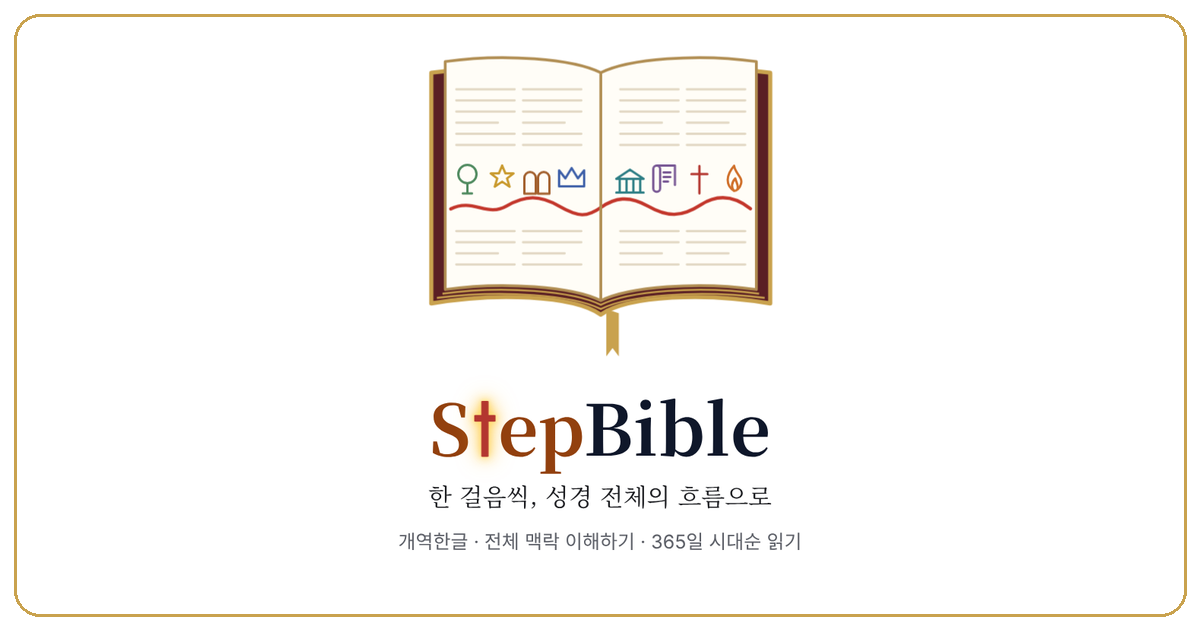
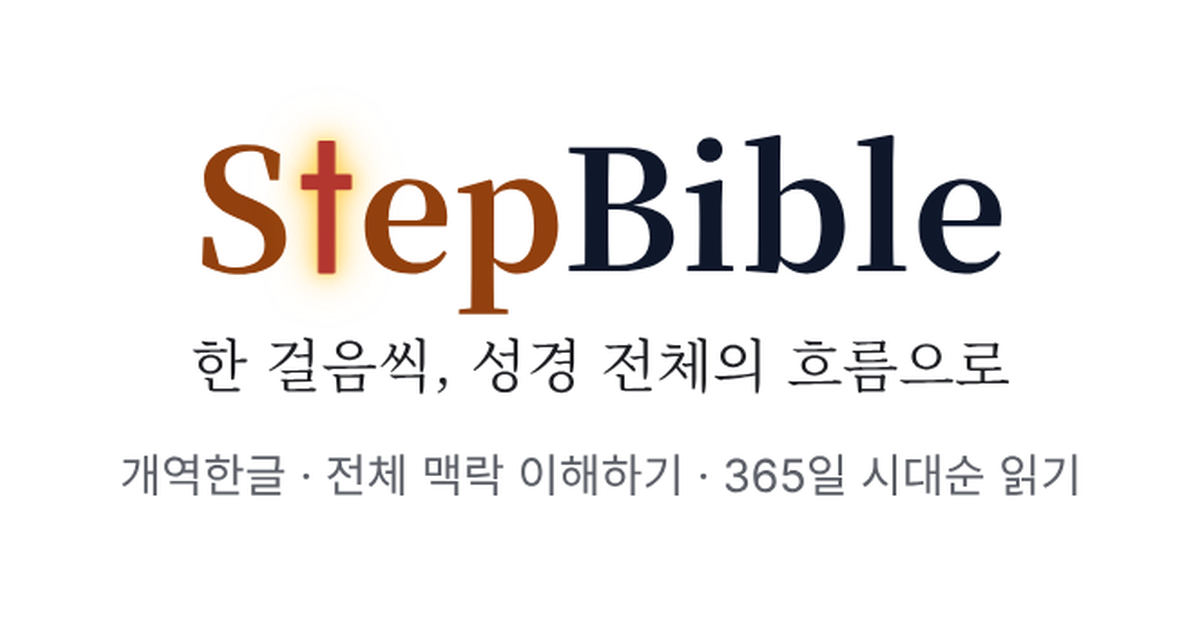
표지: 책 그림 제거·안내 문구와 출처 줄 제거·애니 끝나고 1초 뒤 자동 넘김, 새 홈 아이콘(네온 십자가)·썸네일
Claude-Session: https://claude.ai/code/session_01ShrJEvwfrySTnp1QrGgoXP

diff --git a/index.html b/index.html
@@ -7,8 +7,8 @@
 <meta name="description" content="흐름으로 읽는 개역한글 성경 — 큰 그림, 365일 시대순 읽기, 66권 해설">
 <meta name="theme-color" content="#5a1f24">
 <link rel="manifest" href="manifest.webmanifest">
-<link rel="icon" href="sb2-icon-192.png">
-<link rel="apple-touch-icon" sizes="180x180" href="sb2-touch-180.png">
+<link rel="icon" href="sb3-icon-192.png">
+<link rel="apple-touch-icon" sizes="180x180" href="sb3-touch-180.png">
 <meta name="apple-mobile-web-app-capable" content="yes">
 <meta name="apple-mobile-web-app-title" content="StepBible">
 <meta property="og:title" content="StepBible">
@@ -321,7 +321,7 @@ textarea{min-height:96px;resize:vertical}
 .cover .hint{margin:clamp(10px,2.4vh,20px) 0 0;font-size:13.5px;color:var(--sub)}
 .cover .ft{position:absolute;left:0;right:0;bottom:clamp(14px,2.4vh,20px);font-size:12px;color:var(--sub)}
 .cover .fade{animation:rise .8s ease-out both}
-.cover h2.fade{animation-delay:3.9s}.cover .tag.fade{animation-delay:4.1s}.cover .sub.fade{animation-delay:4.2s}.cover .hint.fade{animation-delay:4.6s}
+.cover h2.fade{animation-delay:.3s}.cover .tag.fade{animation-delay:.55s}.cover .sub.fade{animation-delay:.7s}.cover .hint.fade{animation-delay:1.4s}
 @media(max-height:640px){.cover .ft{display:none}.frame{padding-bottom:20px}}
 @keyframes draw{to{stroke-dashoffset:0}}
 @keyframes gather{from{transform:translate(var(--x),var(--y)) rotate(var(--r)) scale(1.3)}to{transform:none}}
@@ -388,26 +388,26 @@ textarea{min-height:96px;resize:vertical}
 @keyframes rb{to{height:38vh}}
 @keyframes sway{from{transform:rotate(-1.6deg)}to{transform:rotate(1.6deg)}}
 .cover .sea-art path,.cover .sea-art circle{fill:none;stroke:#c9a24e;stroke-width:1.8;stroke-linecap:round;stroke-linejoin:round}
-.cover .sea-art [pathLength]{stroke-dasharray:1;stroke-dashoffset:1;animation:draw 1.1s ease-out 3.9s forwards}
-.cover .sea-art.xmas .glow circle{fill:color-mix(in srgb,#f3d675 45%,transparent);stroke:none;opacity:0;transform-box:fill-box;transform-origin:center;animation:glow 2.4s ease-in-out 4.6s infinite alternate}
+.cover .sea-art [pathLength]{stroke-dasharray:1;stroke-dashoffset:1;animation:draw 1.1s ease-out 1s forwards}
+.cover .sea-art.xmas .glow circle{fill:color-mix(in srgb,#f3d675 45%,transparent);stroke:none;opacity:0;transform-box:fill-box;transform-origin:center;animation:glow 2.4s ease-in-out 1.7s infinite alternate}
 @keyframes glow{from{opacity:.2;transform:scale(.7)}to{opacity:.8;transform:scale(1.25)}}
 .cover .sea-art .spk path{opacity:0;stroke-width:1.4;animation:twk 1.6s ease-in-out infinite alternate}
-.cover .sea-art .spk path:nth-child(1){animation-delay:4.8s}.cover .sea-art .spk path:nth-child(2){animation-delay:5.3s}.cover .sea-art .spk path:nth-child(3){animation-delay:5.7s}
+.cover .sea-art .spk path:nth-child(1){animation-delay:1.9s}.cover .sea-art .spk path:nth-child(2){animation-delay:2.4s}.cover .sea-art .spk path:nth-child(3){animation-delay:2.8s}
 @keyframes twk{from{opacity:0}to{opacity:.9}}
-.cover .sea-art.easter .dark{fill:light-dark(#5b4a33,#2a2218);stroke:none;opacity:0;animation:fadein .6s 4.3s forwards}
-.cover .sea-art.easter .stone{animation:roll 1.4s cubic-bezier(.4,0,.2,1) 4.5s both}
+.cover .sea-art.easter .dark{fill:light-dark(#5b4a33,#2a2218);stroke:none;opacity:0;animation:fadein .6s 1.4s forwards}
+.cover .sea-art.easter .stone{animation:roll 1.4s cubic-bezier(.4,0,.2,1) 1.6s both}
 @keyframes roll{from{transform:translate(0px,3px) rotate(0)}to{transform:translate(28px,3px) rotate(160deg)}}
-.cover .sea-art.easter .rays path{stroke:#e6b93c;opacity:0;animation:twk 1.4s ease-in-out 5.8s infinite alternate}
+.cover .sea-art.easter .rays path{stroke:#e6b93c;opacity:0;animation:twk 1.4s ease-in-out 2.9s infinite alternate}
 .eggnote{font:13px var(--sans)!important;color:var(--sub);margin:-6px 0 14px!important;text-indent:0!important}
 .eggbadge{display:inline-flex;align-items:center;gap:6px;font:700 13px var(--sans);color:#8a6a1e;background:color-mix(in srgb,#c9a24e 18%,var(--bg));border:1px solid color-mix(in srgb,#c9a24e 45%,transparent);border-radius:999px;padding:5px 12px;margin:2px 0 14px}
 .eggbadge svg{width:15px;height:15px;fill:none;stroke:currentColor;stroke-width:2;stroke-linecap:round}
 .cover .seasonv{font:15px/1.6 "Gowun Batang",serif;color:var(--ink);margin:6px 0 0;max-width:30em}
 .cover .seasonv b{color:#a3612f}.cover .seasonv span{font:12px var(--sans);color:var(--sub)}
-.cover .seasonv.fade{animation-delay:4.4s}
+.cover .seasonv.fade{animation-delay:1.5s}
 @media(prefers-reduced-motion:reduce){.eggfx{display:none}.tear svg{animation:none}}
 .cover h2.wm svg.tcx,.top h1 svg.tcx{display:inline-block;flex:none;max-height:none;overflow:visible;height:.8em;width:.36em;margin:0 .015em 0 .01em;vertical-align:-.005em;overflow:visible}
 .cover h2.wm svg.tcx .tube,.top h1 svg.tcx .tube{fill:light-dark(#b3362f,#f08a80);filter:drop-shadow(0 0 2px rgba(255,226,120,1)) drop-shadow(0 0 7px rgba(255,200,50,.85)) drop-shadow(0 0 15px rgba(255,190,40,.55))}
-.cover h2.wm svg.tcx .tube{animation:neonOn 1.1s steps(1,end) 4.2s both,neonHum 3s ease-in-out 5.4s infinite alternate}
+.cover h2.wm svg.tcx .tube{animation:neonOn 1.1s steps(1,end) .8s both,neonHum 3s ease-in-out 2s infinite alternate}
 @keyframes neonOn{0%{filter:none}10%{filter:drop-shadow(0 0 2px rgba(255,226,120,1)) drop-shadow(0 0 7px rgba(255,200,50,.85)) drop-shadow(0 0 15px rgba(255,190,40,.55))}18%{filter:none}26%{filter:drop-shadow(0 0 2px rgba(255,226,120,1)) drop-shadow(0 0 7px rgba(255,200,50,.85)) drop-shadow(0 0 15px rgba(255,190,40,.55))}34%{filter:drop-shadow(0 0 2px rgba(255,226,120,.5))}40%,100%{filter:drop-shadow(0 0 2px rgba(255,226,120,1)) drop-shadow(0 0 7px rgba(255,200,50,.85)) drop-shadow(0 0 15px rgba(255,190,40,.55))}}
 @keyframes neonHum{from{filter:drop-shadow(0 0 2px rgba(255,226,120,1)) drop-shadow(0 0 7px rgba(255,200,50,.85)) drop-shadow(0 0 15px rgba(255,190,40,.55))}to{filter:drop-shadow(0 0 3px rgba(255,232,140,1)) drop-shadow(0 0 10px rgba(255,205,60,.95)) drop-shadow(0 0 20px rgba(255,190,40,.65))}}
 /* 66권: 책장 */
@@ -427,6 +427,7 @@ textarea{min-height:96px;resize:vertical}
 .sg .sp button:active{transform:translateY(-6px)}
 @media(hover:hover){.sg .sp button:hover{transform:translateY(-6px)}}
 .sg .sl{font:600 11.5px var(--sans);color:var(--gc);text-align:center;margin-top:9px;filter:saturate(1.1)}
+.cover svg.nobook:empty{display:none}
 @keyframes fadein{to{opacity:1}}
 @keyframes drop{from{opacity:0;transform:scaleY(.2)}to{opacity:1;transform:none}}
 @keyframes draw{to{stroke-dashoffset:0}}
@@ -488,31 +489,11 @@ textarea{min-height:96px;resize:vertical}
 
 <div class="scrim" id="scrim"></div>
 <div class="sheet" id="sheet" role="dialog" aria-modal="true"></div>
-<div class="cover" id="cover" role="dialog" aria-label="StepBible 표지 — 화면을 누르면 시작해요"><div class="frame">
- <svg viewBox="0 0 360 252" aria-hidden="true">
-  <path class="cv" d="M180 50C160 40 104 38 58 44V210C104 202 160 204 180 218 200 204 256 202 302 210V44C256 38 200 40 180 50Z"/>
-  <path class="pgf" d="M180 44C160 34 110 30 68 36V200C110 194 160 198 180 208 200 198 250 194 292 200V36C250 30 200 34 180 44Z"/>
-  <path class="tx" style="--d:3.50s" d="M76 56H118"/><path class="tx" style="--d:3.51s" d="M76 64H118"/><path class="tx" style="--d:3.52s" d="M76 72H118"/><path class="tx" style="--d:3.54s" d="M76 80H106"/><path class="tx" style="--d:3.55s" d="M76 88H118"/><path class="tx" style="--d:3.56s" d="M76 96H118"/><path class="tx" style="--d:3.57s" d="M76 158H118"/><path class="tx" style="--d:3.58s" d="M76 166H118"/><path class="tx" style="--d:3.60s" d="M76 174H106"/><path class="tx" style="--d:3.61s" d="M76 182H118"/><path class="tx" style="--d:3.62s" d="M124 56H166"/><path class="tx" style="--d:3.63s" d="M124 64H166"/><path class="tx" style="--d:3.64s" d="M124 72H166"/><path class="tx" style="--d:3.66s" d="M124 80H154"/><path class="tx" style="--d:3.67s" d="M124 88H166"/><path class="tx" style="--d:3.68s" d="M124 96H166"/><path class="tx" style="--d:3.69s" d="M124 158H166"/><path class="tx" style="--d:3.70s" d="M124 166H166"/><path class="tx" style="--d:3.72s" d="M124 174H154"/><path class="tx" style="--d:3.73s" d="M124 182H166"/><path class="tx" style="--d:3.74s" d="M194 56H236"/><path class="tx" style="--d:3.75s" d="M194 64H236"/><path class="tx" style="--d:3.76s" d="M194 72H236"/><path class="tx" style="--d:3.78s" d="M194 80H224"/><path class="tx" style="--d:3.79s" d="M194 88H236"/><path class="tx" style="--d:3.80s" d="M194 96H236"/><path class="tx" style="--d:3.81s" d="M194 158H236"/><path class="tx" style="--d:3.82s" d="M194 166H236"/><path class="tx" style="--d:3.84s" d="M194 174H224"/><path class="tx" style="--d:3.85s" d="M194 182H236"/><path class="tx" style="--d:3.86s" d="M242 56H284"/><path class="tx" style="--d:3.87s" d="M242 64H284"/><path class="tx" style="--d:3.88s" d="M242 72H284"/><path class="tx" style="--d:3.90s" d="M242 80H272"/><path class="tx" style="--d:3.91s" d="M242 88H284"/><path class="tx" style="--d:3.92s" d="M242 96H284"/><path class="tx" style="--d:3.93s" d="M242 158H284"/><path class="tx" style="--d:3.94s" d="M242 166H284"/><path class="tx" style="--d:3.96s" d="M242 174H272"/><path class="tx" style="--d:3.97s" d="M242 182H284"/>
-  <g transform="translate(84 121) scale(.82)"><g class="ic ln" style="--c:#4f8a5f;--x:20px;--y:-110px;--r:-35deg;--d:0.00s"><title>나무 · 창조</title><circle pathLength="1" cx="0" cy="-5" r="8"/><path pathLength="1" d="M0 3V12M-4 12H4"/></g></g>
-  <g transform="translate(109 119) scale(.82)"><g class="ic ln" style="--c:#c99a2e;--x:180px;--y:-140px;--r:28deg;--d:0.09s"><title>별 · 아브라함</title><path pathLength="1" d="M0-10 2.9-3.1 10-3.1 4.3 1.3 6.5 8.5 0 4.1-6.5 8.5-4.3 1.3-10-3.1-2.9-3.1Z"/></g></g>
-  <g transform="translate(134 122) scale(.82)"><g class="ic ln" style="--c:#a3612f;--x:-90px;--y:170px;--r:40deg;--d:0.18s"><title>돌판 · 율법</title><path pathLength="1" d="M-11 11V-3A5 5 0 0 1-1-3V11ZM1 11V-3A5 5 0 0 1 11-3V11Z"/></g></g>
-  <g transform="translate(159 120) scale(.82)"><g class="ic ln" style="--c:#3d5fa8;--x:150px;--y:130px;--r:-30deg;--d:0.27s"><title>왕관 · 다윗</title><path pathLength="1" d="M-11 7V-7L-5.5 0 0-9 5.5 0 11-7V7Z"/></g></g>
-  <g transform="translate(201 122) scale(.82)"><g class="ic ln" style="--c:#2f7f86;--x:-170px;--y:-60px;--r:22deg;--d:0.36s"><title>성전</title><path pathLength="1" d="M-12-2 0-10 12-2ZM-9-2V9M-3-2V9M3-2V9M9-2V9M-12 10H12"/></g></g>
-  <g transform="translate(226 119) scale(.82)"><g class="ic ln" style="--c:#7a5a96;--x:60px;--y:210px;--r:-42deg;--d:0.45s"><title>두루마리 · 선지자</title><path pathLength="1" d="M-7-10H9V7M-10-7A3 3 0 0 1-4-7V10A3 3 0 0 1-10 10ZM-1-4H5M-1 0H5M-1 4H3"/></g></g>
-  <g transform="translate(251 121) scale(.82)"><g class="ic ln" style="--c:#b3362f;--x:-230px;--y:60px;--r:18deg;--d:0.54s"><title>십자가</title><path pathLength="1" d="M0-12V12M-7-5H7"/></g></g>
-  <g transform="translate(276 120) scale(.82)"><g class="ic ln" style="--c:#d0702b;--x:-40px;--y:-150px;--r:35deg;--d:0.63s"><title>불꽃 · 성령</title><path pathLength="1" d="M0 11C-8 6-7-3 0-11 1-4 8-1 6 5 5 9 2 11 0 11ZM0 11C-3 8-2 3 1 0 2 4 4 6 3 9"/></g></g>
-
-  <path class="thr" pathLength="1" d="M72 142C88 134 98 148 112 140S136 132 150 140 170 148 180 141 200 132 214 140 238 148 252 139 278 134 288 142"/>
-  <path class="bk" pathLength="1" d="M180 44C160 34 110 30 68 36V200C110 194 160 198 180 208 200 198 250 194 292 200V36C250 30 200 34 180 44ZM180 44V208"/>
-  <path class="ed" pathLength="1" d="M66 203C110 197 160 201 180 211 200 201 250 197 294 203"/>
-  <path class="ed" pathLength="1" style="animation-delay:3.75s" d="M62 206C110 200 160 204 180 214 200 204 250 200 298 206"/>
-  <path class="rb" d="M184 214V248L188.5 242 193 248V217Z"/>
- </svg>
+<div class="cover" id="cover" role="dialog" aria-label="StepBible 표지"><div class="frame">
+ <svg viewBox="0 -30 360 80" aria-hidden="true" class="nobook"></svg>
  <h2 class="fade wm" aria-label="StepBible"><span>S<svg class="tcx" viewBox="0 0 40 100" aria-hidden="true"><path class="tube" d="M13.5 1.5Q13.5 0 15 0H25Q26.5 0 26.5 1.5V25H37.5Q39 25 39 26.5V35.5Q39 37 37.5 37H26.5V98.5Q26.5 100 25 100H15Q13.5 100 13.5 98.5V37H2.5Q1 37 1 35.5V26.5Q1 25 2.5 25H13.5Z"/></svg>ep</span>Bible</h2>
  <p class="tag fade">한 걸음씩, 성경 전체의 흐름으로</p>
  <p class="sub fade">개역한글 · 전체 맥락 이해하기 · 365일 시대순 읽기</p>
- <p class="hint fade">화면을 누르면 시작해요</p>
- <div class="ft">성경전서 개역한글판 (대한성서공회)</div>
 </div></div>
 <div class="toast" id="toast" role="status"></div>
 <script>
@@ -1405,7 +1386,7 @@ function rMe(){
    <div class="sh">백업</div><p class="small muted" style="margin:0 0 8px">마크·메모·읽은 날을 글자로 복사해 두었다가, 다른 브라우저에서 붙여 넣어 되살릴 수 있어요.</p>
    <div class="links" style="margin-top:0"><button class="btn ghost" id="bk1">기록 복사하기</button><button class="btn ghost" id="bk2">붙여 넣어 되살리기</button></div>
    <div id="bkbox"></div>
-   <div class="sh">앱 정보</div><p class="small" style="margin:0">StepBible <b id="ver" style="cursor:default">버전 1.128</b> <span class="muted">· 2026년 11월 25일 업데이트</span></p>
+   <div class="sh">앱 정보</div><p class="small" style="margin:0">StepBible <b id="ver" style="cursor:default">버전 1.132</b> <span class="muted">· 2026년 11월 25일 업데이트</span></p>
    <div class="sh">출처</div><p class="small muted" style="margin:0">본문: 성경전서 개역한글판 (대한성서공회). 1961년판으로 2012년 저작권이 만료되어 퍼블릭 도메인이에요. 본문은 바꾸지 않고 그대로 실었어요. 데이터: bible-db 프로젝트의 holybible.or.kr 수집본.<br>해설, 시대 설명, 낱말 풀이, 읽기표는 이 앱을 위해 새로 쓴 것으로, 교파와 학자마다 견해가 다른 부분은 그렇다고 밝혀 두었어요.</p></div>`;
 }
 $("#v-me").addEventListener("click",async e=>{const t=e.target;
@@ -1510,6 +1491,8 @@ function eggFin(force){const n=Object.values(S.done).filter(Boolean).length;if(!
   setTimeout(()=>eggCard(`<svg viewBox="0 0 40 40"><path d="M14 4h12v20l-6-5-6 5Z"/><circle cx="20" cy="29" r="7"/></svg>`,"365일 완주를 축하해요!",vtx(40,25,21,"그 주인이 이르되 잘하였도다 착하고 충성된 종아 네가 작은 일에 충성하였으매 내가 많은 것으로 네게 맡기리니 네 주인의 즐거움에 참예할지어다 하고"),"마태복음 25:21"),1400)}
 document.addEventListener("click",e=>{if(e.target.closest("#finagain"))eggFin(1)});
 try{if(sessionStorage.getItem("cov")&&!new URLSearchParams(location.search).get("egg"))cov.classList.add("off")}catch(e){}
+// 표지 애니가 끝나고 1초 뒤 자동으로 넘어가기
+if(!cov.classList.contains("off"))setTimeout(()=>{if(!cov.classList.contains("off"))hideCover()},$("#cover .seasonv")?4100:2900);
 go(location.hash.slice(1)||"story");
 initDb();
 }

diff --git a/sw.js b/sw.js
@@ -1,7 +1,7 @@
 // StepBible — 오프라인 지원
 // 앱 내용을 고쳐서 다시 올릴 때는 아래 버전 숫자를 하나 올려 주세요 (v1 → v2).
-const VERSION = "bible-v128";
-const CORE = ["./", "./index.html", "./bible.json", "./manifest.webmanifest", "./sb2-icon-192.png", "./sb2-icon-512.png", "./sb2-touch-180.png", "./thumb.png"];
+const VERSION = "bible-v132";
+const CORE = ["./", "./index.html", "./bible.json", "./manifest.webmanifest", "./sb3-icon-192.png", "./sb3-icon-512.png", "./sb3-touch-180.png", "./thumb.png"];
 
 self.addEventListener("install", e => {
   e.waitUntil(caches.open(VERSION).then(c => c.addAll(CORE)).then(() => self.skipWaiting()));

diff --git a/README.md b/README.md
@@ -10,7 +10,7 @@
 | bible.json | 개역한글 본문 (31,101절) |
 | sw.js | 인터넷 없이도 열리게 해 주는 파일 |
 | manifest.webmanifest | 홈 화면에 앱처럼 설치하게 해 주는 파일 |
-| sb2-icon-192.png, sb2-icon-512.png, sb2-touch-180.png | 홈 화면 아이콘 |
+| sb3-icon-192.png, sb3-icon-512.png, sb3-touch-180.png | 홈 화면 아이콘 |
 | thumb.png | 링크 공유 시 미리보기 그림 |
 
 파일 이름과 위치를 바꾸지 말고, 모두 같은 폴더에 그대로 올려 주세요.
